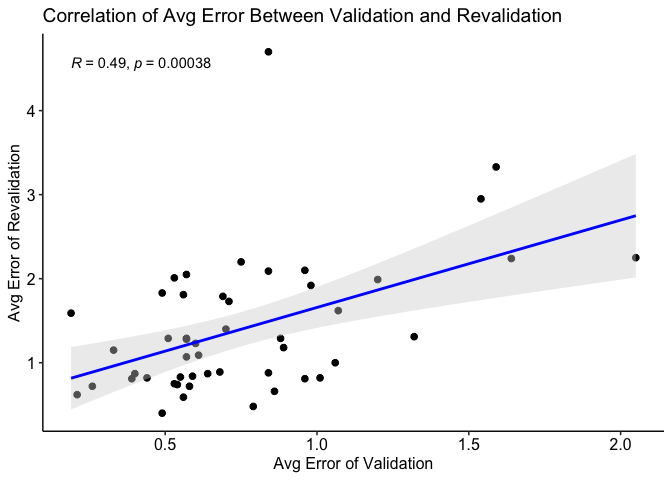
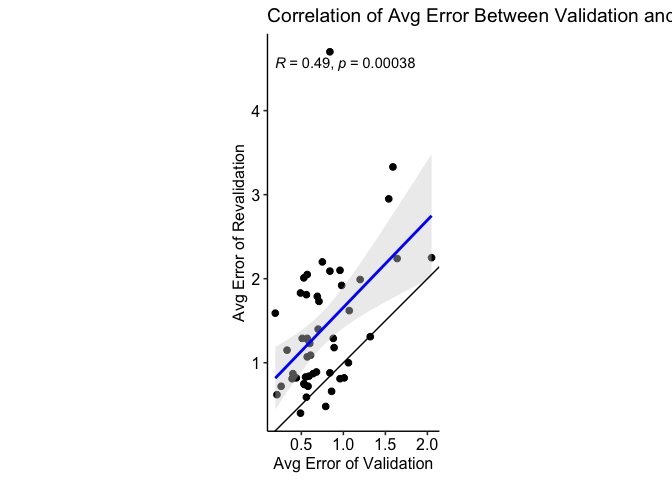
add paired plots using average error

diff --git a/eyetracker_data_preprocessing.md b/eyetracker_data_preprocessing.md
@@ -491,7 +491,7 @@ get_offset_correlation_plot <- function(df, measure) {
     title = tools::toTitleCase(str_glue("Pixel offset ({ measure }) changes between validation and revalidation")),
     x = tools::toTitleCase(str_glue("{ measure } Offset in Validation (px)")),
     y = tools::toTitleCase(str_glue("{ measure } Offset in Revalidation (px)"))
-  )
+  ) 
   
 }
 
@@ -507,13 +507,15 @@ get_offset_boxplot <- function(df, group, measure) {
   theme_pubr() +
   labs(
     title = tools::toTitleCase(str_glue("Pixel offset ({ measure }) from validation to revalidation"))
-  )  
+  ) 
   
 }
 ```
 
 ``` r
-get_error_correlation_plot(val_reval_changes_df, "avg")
+get_error_correlation_plot(val_reval_changes_df, "avg") + 
+  coord_fixed(ratio = 1) +
+  geom_abline()
 ```
 
 ![](eyetracker_data_preprocessing_files/figure-markdown_github/unnamed-chunk-9-1.png)
@@ -669,3 +671,124 @@ get_offset_boxplot(df = categorized_offset_df, group = "category", measure = "di
 ```
 
 ![](eyetracker_data_preprocessing_files/figure-markdown_github/unnamed-chunk-19-1.png)
+
+### Paired Plots
+
+Create a categorized error dataframe and then show an example of it.
+
+``` r
+categorized_error_df <- val_reval_changes_df %>%
+  select(id, matches("error"), -matches("change")) %>% # remove offset change columns
+  pivot_longer(
+    cols = -c(id), # don't select for id
+    names_to = c(".value", "category"),
+    names_pattern = "(.*)_error_(.*)"
+  ) %>%
+  group_by(id) %>%
+  mutate(
+    avg_change = avg[category == "reval"] - avg[category == "val"],
+    max_change = max[category == "reval"] - max[category == "val"]
+  )
+
+make_pretty_df(
+  head(categorized_error_df)
+)
+```
+
+|   id| category |   avg|   max|  avg\_change|  max\_change|
+|----:|:---------|-----:|-----:|------------:|------------:|
+|   21| val      |  1.32|  2.64|        -0.01|         1.47|
+|   21| reval    |  1.31|  4.11|        -0.01|         1.47|
+|   52| val      |  0.56|  1.60|         0.03|        -0.82|
+|   52| reval    |  0.59|  0.78|         0.03|        -0.82|
+|    4| val      |  0.84|  1.10|         0.04|         0.07|
+|    4| reval    |  0.88|  1.17|         0.04|         0.07|
+
+Look at the participants who have decreasing average errors over the
+course of the task.
+
+``` r
+make_pretty_df(
+  categorized_error_df %>%
+    filter(avg_change < 0)
+)
+```
+
+|   id| category |   avg|   max|  avg\_change|  max\_change|
+|----:|:---------|-----:|-----:|------------:|------------:|
+|   21| val      |  1.32|  2.64|        -0.01|         1.47|
+|   21| reval    |  1.31|  4.11|        -0.01|         1.47|
+|   18| val      |  1.06|  1.72|        -0.06|         0.75|
+|   18| reval    |  1.00|  2.47|        -0.06|         0.75|
+|   38| val      |  0.49|  1.40|        -0.09|        -0.17|
+|   38| reval    |  0.40|  1.23|        -0.09|        -0.17|
+|   23| val      |  0.96|  1.93|        -0.15|         0.22|
+|   23| reval    |  0.81|  2.15|        -0.15|         0.22|
+|   54| val      |  1.01|  1.57|        -0.19|         1.48|
+|   54| reval    |  0.82|  3.05|        -0.19|         1.48|
+|   12| val      |  0.86|  1.35|        -0.20|        -0.51|
+|   12| reval    |  0.66|  0.84|        -0.20|        -0.51|
+|   34| val      |  0.79|  1.10|        -0.31|         0.29|
+|   34| reval    |  0.48|  1.39|        -0.31|         0.29|
+
+Plot the change in average error with gradient coloring for the slope of
+average error change.
+
+``` r
+# TODO: make a single method to produce these graphs with options
+
+categorized_error_df %>%
+  filter(avg_change < 0) %>% # only decreasing changes
+  ggplot(aes(x = factor(category, level = c("val", "reval")), y = avg, group = id)) +
+  geom_point(size = 1, alpha = 0.5) +
+  geom_line(alpha = 0.6, aes(color = avg_change)) +
+  scale_color_gradient2(low = "red", mid = "gray", high = "blue") +
+  theme_pubr() +
+  labs(
+    title = "Change in Avg Error between Validation and Revalidation",
+    subtitle = "Only Decreases in Average Error",
+    x = "Event Category",
+    y = "Avg Error"
+  ) +
+  ylim(0, 5)
+```
+
+![](eyetracker_data_preprocessing_files/figure-markdown_github/unnamed-chunk-22-1.png)
+
+``` r
+categorized_error_df %>%
+  filter(avg_change > 0) %>% # Only increasing changes
+  ggplot(aes(x = factor(category, level = c("val", "reval")), y = avg, group = id)) +
+  geom_point(size = 1, alpha = 0.5) +
+  geom_line(alpha = 0.6, aes(color = avg_change)) +
+  scale_color_gradient2(low = "red", mid = "gray", high = "blue") +
+  theme_pubr() +
+  labs(
+    title = "Change in Avg Error between Validation and Revalidation",
+    subtitle = "Only Increases in Average Error",
+    x = "Event Category",
+    y = "Avg Error"
+  ) +
+  ylim(0, 5)
+```
+
+![](eyetracker_data_preprocessing_files/figure-markdown_github/unnamed-chunk-22-2.png)
+
+``` r
+categorized_error_df %>%
+  filter(id != 11) %>% # remove CSN011
+  ggplot(aes(x = factor(category, level = c("val", "reval")), y = avg, group = id)) +
+  geom_point(size = 1, alpha = 0.5) +
+  geom_line(alpha = 0.6, aes(color = avg_change)) +
+  scale_color_gradient2(low = "red", mid = "gray", high = "blue") +
+  theme_pubr() +
+  labs(
+    title = "Change in Avg Error between Validation and Revalidation",
+    subtitle = "Excluding CSN011",
+    x = "Event Category",
+    y = "Avg Error"
+  ) +
+  ylim(0, 5)
+```
+
+![](eyetracker_data_preprocessing_files/figure-markdown_github/unnamed-chunk-22-3.png)
